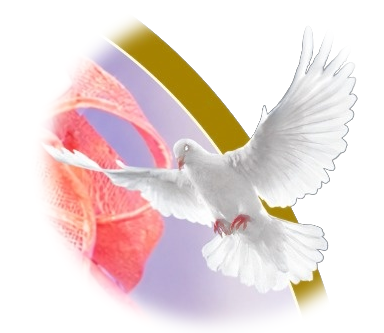
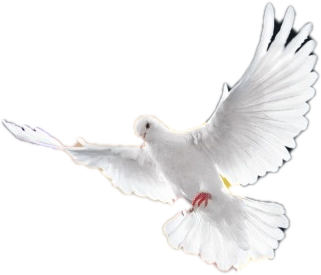
Booklet (WIP): A5 page builder, stylesheet and tribute text from the supplied document
Claude-Session: https://claude.ai/code/session_01K4EnF2A5EJ5axGxs2C2Gak

diff --git a/affiche-ruth-bonney-oussa/livret/livret.html b/affiche-ruth-bonney-oussa/livret/livret.html
@@ -1,0 +1,94 @@
+<!doctype html><html lang="en"><head><meta charset="utf-8"><title>In Loving Memory – Madam Ruth Bonney Oussa</title><style>@font-face{font-family:'Playfair';src:url(../fonts/PlayfairDisplay.ttf);font-weight:400 900;}
+@font-face{font-family:'Playfair';src:url(../fonts/PlayfairDisplay-Italic.ttf);font-style:italic;font-weight:400 900;}
+@font-face{font-family:'Cormorant';src:url(../fonts/Cormorant.ttf);font-weight:300 700;}
+@font-face{font-family:'Cormorant';src:url(../fonts/Cormorant-Italic.ttf);font-style:italic;font-weight:300 700;}
+@font-face{font-family:'Vibes';src:url(../fonts/GreatVibes.ttf);}
+@font-face{font-family:'Poppins';src:url(../fonts/Poppins-Regular.ttf);font-weight:400;}
+@font-face{font-family:'Poppins';src:url(../fonts/Poppins-SemiBold.ttf);font-weight:600;}
+@page{size:148mm 210mm;margin:0}
+:root{--gold:#d4a73a;--goldl:#f0d38d;--cream:#efe8d8;--soft:#bfb7a6}
+*{box-sizing:border-box;margin:0;padding:0}
+html,body{background:#000;-webkit-print-color-adjust:exact;print-color-adjust:exact}
+.page{position:relative;width:148mm;height:210mm;overflow:hidden;page-break-after:always;break-after:page;color:var(--cream);font-family:'Cormorant',serif;
+  background:radial-gradient(ellipse 120mm 110mm at 50% 38%,#1b2430 0%,#0c1119 60%,#070a10 100%)}
+.cover img{width:100%;height:100%;display:block}
+.frame{position:absolute;inset:7mm;border:.35mm solid var(--gold);opacity:.75}
+.frame::after{content:'';position:absolute;inset:1.6mm;border:.15mm solid var(--gold);opacity:.6}
+.center{position:absolute;left:16mm;right:16mm;top:20mm;bottom:18mm;text-align:center;display:flex;flex-direction:column;align-items:center}
+.center.top{top:15mm}.center.mid{justify-content:center;top:0;bottom:0}.center.photo{justify-content:center;top:0;bottom:0;gap:10mm}
+.cross{color:var(--gold);font-size:15pt;line-height:1;margin-bottom:3mm}
+.kicker{font-family:'Poppins',sans-serif;font-weight:600;font-size:8.5pt;letter-spacing:3mm;color:#fff;padding-left:3mm}
+.script{font-family:'Vibes',cursive;color:var(--gold)}
+.script.h{font-size:30pt;line-height:1.1}.script.big{font-size:34pt;line-height:1.2}.script.small{font-size:15pt;line-height:1.35;max-width:100mm}
+.sub{font-family:'Cormorant',serif;font-style:italic;font-size:12pt;color:var(--soft);margin-top:1mm}
+.rule{width:34mm;height:.3mm;background:linear-gradient(90deg,transparent,var(--gold),transparent);margin:5mm 0}
+.ring{width:62mm;height:70mm;border-radius:50%;border:1.1mm solid var(--gold);padding:1mm;margin:7mm 0 6mm;box-shadow:0 0 6mm rgba(212,167,58,.25)}
+.ring.big{width:92mm;height:104mm;margin:0}
+.ph{width:100%;height:100%;border-radius:50%;background:url(assets/portrait.jpg) center 18%/cover no-repeat}
+.madam{font-family:'Playfair',serif;font-size:11pt;letter-spacing:1.2mm;color:#fff}
+.name{font-family:'Playfair',serif;font-weight:700;font-size:19pt;color:var(--gold);margin-top:1mm}
+.aka{font-family:'Poppins',sans-serif;font-size:10pt;color:#fff;margin-top:2mm}
+.dates{font-family:'Poppins',sans-serif;font-size:8.5pt;color:var(--cream);margin-top:2mm;letter-spacing:.2mm}
+.dove{position:absolute;width:30mm;opacity:.95}
+.dove.l{left:12mm;top:62mm}.dove.r{right:12mm;top:62mm}
+.back .dove.l,.page .dove.l{}
+.mid ~ .dove{}
+.ev{margin-top:9mm}.ev h3{font-family:'Playfair',serif;font-size:15pt;color:#fff;margin-top:3mm;font-weight:600}.ev p{font-size:12pt;font-style:italic;color:var(--soft);margin-top:1mm}
+.pill{display:inline-block;border:.3mm solid var(--gold);color:var(--goldl);border-radius:5mm;font-family:'Poppins',sans-serif;font-weight:600;font-size:7.5pt;letter-spacing:.5mm;text-transform:uppercase;padding:1.6mm 4.5mm}
+.sur{font-family:'Poppins',sans-serif;font-weight:600;font-size:7pt;letter-spacing:.5mm;color:var(--goldl);margin-bottom:2mm;line-height:1.6}
+h4{font-family:'Playfair',serif;font-style:italic;font-weight:600;font-size:13pt;color:var(--gold);margin:4mm 0 1.5mm}
+.nm{font-family:'Poppins',sans-serif;font-size:8.5pt;line-height:1.55;color:var(--cream)}.nm b{font-weight:600;color:#fff}.nm span{color:var(--soft)}
+.side{font-family:'Poppins',sans-serif;font-weight:600;font-size:8pt;letter-spacing:1mm;text-transform:uppercase;color:var(--goldl);margin-top:1mm}
+.list{text-align:center}.list p{font-family:'Poppins',sans-serif;font-size:8.5pt;line-height:1.55;margin-bottom:2.1mm;color:var(--soft)}.list p b{color:#fff;font-weight:600}.list p span{color:var(--cream)}
+.text{padding:17mm 17mm 16mm}
+.ttl{text-align:center;margin-bottom:5mm}.ttl span{display:block;font-family:'Poppins',sans-serif;font-size:7.5pt;letter-spacing:1.6mm;text-transform:uppercase;color:var(--goldl)}
+.ttl b{display:block;font-family:'Vibes',cursive;font-weight:400;font-size:30pt;color:var(--gold);line-height:1.15}.ttl em{font-size:11pt;color:var(--soft)}
+.text .p{font-size:10.6pt;line-height:1.38;margin-bottom:2.6mm;text-align:justify;hyphens:auto}
+.text .q{font-size:10.4pt;line-height:1.35;font-style:italic;color:var(--gold);margin:1mm 4mm 3mm;text-align:center}
+.verse{font-family:'Cormorant',serif;font-style:italic;font-size:17pt;line-height:1.4;max-width:92mm;color:#fff;margin-top:2mm}
+.jn{font-family:'Poppins',sans-serif;font-weight:600;font-size:8pt;letter-spacing:1.2mm;color:var(--gold);margin-top:6mm}
+.pn{position:absolute;bottom:10.5mm;left:0;right:0;text-align:center;font-family:'Poppins',sans-serif;font-size:7pt;color:var(--soft)}
+</style></head><body><section class="page cover"><img src="assets/cover.jpg"></section>
+<section class="page"><div class="frame"></div>
+ <img class="dove l" src="assets/dove-l.png"><img class="dove r" src="assets/dove-r.png">
+ <div class="center top">
+  <div class="cross">✝</div><div class="kicker">IN LOVING MEMORY</div>
+  <div class="ring"><div class="ph"></div></div>
+  <div class="madam">MADAM</div><div class="name">Ruth BONNEY OUSSA</div>
+  <div class="aka">(a.k.a Da Adzo)</div>
+  <div class="dates">Aged 63 &nbsp;·&nbsp; Called to rest on 26th October 2026</div>
+  <div class="rule"></div>
+  <div class="script small">A life well lived, a heart full of love, a legacy that will forever remain.</div>
+ </div><div class="pn">2</div></section>
+<section class="page"><div class="frame"></div><div class="center">
+  <div class="cross">✝</div><div class="script h">Funeral Programme</div><div class="sub">Ewegbe-Hohoe, Volta Region, Ghana</div><div class="rule"></div>
+  <div class="ev"><span class="pill">Friday, 6 November 2026</span><h3>Wake-Keeping</h3><p>at the family residence</p></div>
+  <div class="ev"><span class="pill">Saturday, 7 November 2026</span><h3>Funeral Service and Burial</h3><p>at the cemetery in Ewegbe-Hohoe</p></div>
+  <div class="ev"><span class="pill">Sunday, 8 November 2026</span><h3>Thanksgiving Service</h3></div>
+ </div><div class="pn">3</div></section>
+<section class="page"><div class="frame"></div><div class="center">
+  <div class="cross">✝</div><div class="script h">The Beloved Family</div><div class="rule"></div>
+  <div class="sur">ADZRAKUTSE • BONNEY • OUSSA • HOUSSOU • OROUNLA • AGOUNKPE</div>
+  <h4>Children</h4>
+  <p class="nm"><b>Huldah</b> OROUNLA</p><p class="nm"><b>Michèle</b> OUSSA</p><p class="nm"><b>Godwill</b> OUSSA</p><p class="nm"><b>Anne Marie</b> OUSSA</p><p class="nm"><b>Jean Claude</b> OUSSA</p>
+  <h4>Siblings</h4>
+  <p class="nm"><b>TERESA</b> VIDEKPUE</p><p class="nm"><b>NOAH</b> VIDEKPUR</p><p class="nm"><b>MAWUNI</b> ADZRAKUTSE</p><p class="nm"><b>EMMANUEL</b> ADZRAKUTSE</p><p class="nm"><b>DAVID</b> AIIZRI</p><p class="nm"><b>FLORENCE</b> ADZEI</p><p class="nm"><b>ABUYA</b></p>
+  <div class="rule"></div>
+  <p class="nm"><b>KOFI BRAHENE</b>, <span>Vinor</span></p><p class="nm"><b>ADJOS ADZRAKUTSE</b>, <span>Vitor</span></p>
+ </div><div class="pn">4</div></section>
+<section class="page"><div class="frame"></div><div class="center"><div class="cross">✝</div><div class="script h">Chief Mourners</div><div class="side">Father’s side</div><div class="rule"></div><div class="list"><p><b>TOGBE KOMLA KUNDE V</b>, <span>Chief of Alavanyo Abehenease</span></p><p><b>MR ROBERT ADZRAKU</b>, <span>Rtd Educationist</span></p><p><b>MR SAI ADZRAKUTSE ATSU</b></p><p><b>TOGBE ADJOS ASANGO</b></p><p><b>PHILOMENA BONNIE</b></p><p><b>MAMA FAFA MEDINAWO AGBO II</b></p><p><b>MADAM VERONICA KOFIYAO</b></p><p><b>CHRISTINE ADRAKU</b></p><p><b>REGINA KOFIYAO</b></p><p><b>ELISA ADZRAKU</b></p><p><b>NESTOR ADZRAKU</b></p></div></div><div class="pn">5</div></section>
+<section class="page"><div class="frame"></div><div class="center"><div class="cross">✝</div><div class="script h">Chief Mourners</div><div class="side">Mother’s side</div><div class="rule"></div><div class="list"><p><b>TOGBE KEH XII</b>, <span>Divisional Chief of Gbi Wegbe</span></p><p><b>TOGBE KATABUA IV</b>, <span>Dzabe Sub-Divisional Chief</span></p><p><b>KPUKPOTOR JOHN KUBI</b>, <span>Gbi Wegbe</span></p><p><b>MR MANKRA MATHIAS</b>, <span>Fiator Nyive</span></p><p><b>MR ANTHONY ALAYI</b>, <span>Clan Head Nyive</span></p><p><b>MAMA AMETORWOYOR</b>, <span>Queen Mother Nyive</span></p><p><b>AFETOR KOKU SOGLO</b>, <span>Fiatefenorla Nyive</span></p><p><b>MADAM BERNICE BRAHENE</b></p><p><b>ME KOFI ADUSU</b>, <span>Fiatefenorla Dzabe</span></p></div></div><div class="pn">6</div></section>
+<section class="page text"><div class="ttl"><span>Tribute to</span><b>Sister Adjo</b><em>By Her Children</em></div><p class="p">Our mother, Mrs. OUSSA, Sister Adjo, went to be with her Lord at the age of 63.</p><p class="p">Lost for words to express what we feel, we know one thing: she is not lost. She is with the One she loved with all her heart.</p><p class="q">“I am the resurrection and the life. He who believes in me will live, even if he dies; and whoever lives and believes in me will never die.” — John 11:25-26</p><p class="p">Our mother did not simply speak to us about God: she made Him known to us through her life. We learned to love the Lord by watching her love Him. We learned to pray by hearing her pray. We learned to believe by seeing her believe, even when everything seemed hard.</p><p class="p">How many times did she tell us not to give up, to stand firm, to persevere in the faith? When we were tired, discouraged or tempted to let go, her voice was there: “Hold on. God is faithful.” Even today, those words echo within us, and we will carry them all our lives.</p><p class="q">“She opens her mouth with wisdom, and kind instruction is on her tongue. Her sons rise up and call her blessed.” — Proverbs 31:26, 28</p><p class="p">Mama, today we rise up, and we call you happy and blessed.</p><div class="pn">7</div></section>
+<section class="page text"><p class="p">Sister Adjo was a woman of prayer. In the secret of her room, on her knees, she carried each one of us before God. She prayed for our studies, our paths, our families, our struggles. She prayed for her church, for her brothers and sisters, and even for people whom few noticed.</p><p class="p">We will never know everything God did in answer to her prayers. But we know that much of what we are and what we have, we owe to her knees worn down before the throne of grace. Her prayers did not die with her: they continue to plead for us before God.</p><p class="q">“Pray without ceasing.” — 1 Thessalonians 5:17</p><p class="p">She lived out this verse, simply, every day.</p><p class="p">And there was that smile. That smile that never left her. The one that welcomed everyone, young or old, known or unknown. The one that reassured without a word, that disarmed closed hearts and warmed the coldest homes.</p><p class="p">Her smile was not that of a life without trials; our mother knew her struggles. But she had understood that the joy of the Lord is a strength, and she wore it on her face as a testimony.</p><p class="q">“She is clothed with strength and glory, and she laughs at the days to come.” — Proverbs 31:25</p><p class="p">Today, we weep. We do not hide it; Jesus Himself wept at the tomb of His friend. Our grief is real, because our love is real. There will be days when we will miss her voice, when her empty chair will weigh on us, when we will simply long to hear her say: “My child, take courage.”</p><p class="p">But we do not grieve as those who have no hope.</p><p class="q">“But we do not want you to be ignorant, brothers, concerning those who have fallen asleep, so that you will not grieve as the rest do, who have no hope.” — 1 Thessalonians 4:13</p><div class="pn">8</div></section>
+<section class="page text"><p class="p">We have the assurance that she sleeps in Christ, and that we will see her again.</p><p class="q">“He will wipe away every tear from their eyes. Death will be no more; there will be no more mourning, no more crying, no more pain.” — Revelation 21:4</p><p class="p">Mama, you have finished your course. You were not perfect — no one is — but you were faithful. You loved God, you loved people, you raised your children in the fear of the Lord. Today, we can say of you what the apostle Paul said of himself:</p><p class="q">“I have fought the good fight, I have finished the course, I have kept the faith. From now on, the crown of righteousness is reserved for me.” — 2 Timothy 4:7-8</p><p class="p">And we believe that the Lord welcomed you with these words: “Well done, good and faithful servant; enter into the joy of your master.” (Matthew 25:21)</p><p class="p">Mama, we make you a promise, on behalf of all your children. We will keep the faith you handed down to us. We will keep praying, loving one another, supporting one another, and forgiving. We will keep your smile alive in our homes and in our lives. And we will see to it that what you sowed with tears, we reap with joy.</p><p class="q">“Those who sow with tears will reap with shouts of joy.” — Psalm 126:5</p><p class="p">We do not say goodbye, but see you again in our Father’s house.</p><p class="p">Thank you for your faith, thank you for your prayers, thank you for your smile, thank you for your love. We love you, and we will honor you all our lives.</p><p class="p">Rest in peace, Sister Adjo. Your smile, your faith and your love live on in us.</p><div class="pn">9</div></section>
+<section class="page"><div class="frame"></div><div class="center photo">
+  <div class="ring big"><div class="ph"></div></div>
+  <div class="script small">Your love, your strength, your kindness will forever live in our hearts.</div>
+ </div><div class="pn">10</div></section>
+<section class="page"><div class="frame"></div><img class="dove l" src="assets/dove-l.png"><img class="dove r" src="assets/dove-r.png"><div class="center mid">
+  <div class="cross">✝</div>
+  <div class="verse">“Jesus said unto her, I am the resurrection, and the life: he that believeth in me, though he were dead, yet shall he live.”</div><div class="jn">JOHN 11:25</div>
+ </div><div class="pn">11</div></section>
+<section class="page back"><div class="frame"></div><img class="dove l" src="assets/dove-l.png"><img class="dove r" src="assets/dove-r.png"><div class="center mid">
+  <div class="script big">Rest in peace dear Mother</div><div class="rule"></div><div class="sub">She will always be in our hearts</div>
+ </div></section></body></html>

diff --git a/affiche-ruth-bonney-oussa/livret/livret.css b/affiche-ruth-bonney-oussa/livret/livret.css
@@ -1,0 +1,50 @@
+@font-face{font-family:'Playfair';src:url(../fonts/PlayfairDisplay.ttf);font-weight:400 900;}
+@font-face{font-family:'Playfair';src:url(../fonts/PlayfairDisplay-Italic.ttf);font-style:italic;font-weight:400 900;}
+@font-face{font-family:'Cormorant';src:url(../fonts/Cormorant.ttf);font-weight:300 700;}
+@font-face{font-family:'Cormorant';src:url(../fonts/Cormorant-Italic.ttf);font-style:italic;font-weight:300 700;}
+@font-face{font-family:'Vibes';src:url(../fonts/GreatVibes.ttf);}
+@font-face{font-family:'Poppins';src:url(../fonts/Poppins-Regular.ttf);font-weight:400;}
+@font-face{font-family:'Poppins';src:url(../fonts/Poppins-SemiBold.ttf);font-weight:600;}
+@page{size:148mm 210mm;margin:0}
+:root{--gold:#d4a73a;--goldl:#f0d38d;--cream:#efe8d8;--soft:#bfb7a6}
+*{box-sizing:border-box;margin:0;padding:0}
+html,body{background:#000;-webkit-print-color-adjust:exact;print-color-adjust:exact}
+.page{position:relative;width:148mm;height:210mm;overflow:hidden;page-break-after:always;break-after:page;color:var(--cream);font-family:'Cormorant',serif;
+  background:radial-gradient(ellipse 120mm 110mm at 50% 38%,#1b2430 0%,#0c1119 60%,#070a10 100%)}
+.cover img{width:100%;height:100%;display:block}
+.frame{position:absolute;inset:7mm;border:.35mm solid var(--gold);opacity:.75}
+.frame::after{content:'';position:absolute;inset:1.6mm;border:.15mm solid var(--gold);opacity:.6}
+.center{position:absolute;left:16mm;right:16mm;top:20mm;bottom:18mm;text-align:center;display:flex;flex-direction:column;align-items:center}
+.center.top{top:15mm}.center.mid{justify-content:center;top:0;bottom:0}.center.photo{justify-content:center;top:0;bottom:0;gap:10mm}
+.cross{color:var(--gold);font-size:15pt;line-height:1;margin-bottom:3mm}
+.kicker{font-family:'Poppins',sans-serif;font-weight:600;font-size:8.5pt;letter-spacing:3mm;color:#fff;padding-left:3mm}
+.script{font-family:'Vibes',cursive;color:var(--gold)}
+.script.h{font-size:30pt;line-height:1.1}.script.big{font-size:34pt;line-height:1.2}.script.small{font-size:15pt;line-height:1.35;max-width:100mm}
+.sub{font-family:'Cormorant',serif;font-style:italic;font-size:12pt;color:var(--soft);margin-top:1mm}
+.rule{width:34mm;height:.3mm;background:linear-gradient(90deg,transparent,var(--gold),transparent);margin:5mm 0}
+.ring{width:62mm;height:70mm;border-radius:50%;border:1.1mm solid var(--gold);padding:1mm;margin:7mm 0 6mm;box-shadow:0 0 6mm rgba(212,167,58,.25)}
+.ring.big{width:92mm;height:104mm;margin:0}
+.ph{width:100%;height:100%;border-radius:50%;background:url(assets/portrait.jpg) center 18%/cover no-repeat}
+.madam{font-family:'Playfair',serif;font-size:11pt;letter-spacing:1.2mm;color:#fff}
+.name{font-family:'Playfair',serif;font-weight:700;font-size:19pt;color:var(--gold);margin-top:1mm}
+.aka{font-family:'Poppins',sans-serif;font-size:10pt;color:#fff;margin-top:2mm}
+.dates{font-family:'Poppins',sans-serif;font-size:8.5pt;color:var(--cream);margin-top:2mm;letter-spacing:.2mm}
+.dove{position:absolute;width:30mm;opacity:.95}
+.dove.l{left:12mm;top:62mm}.dove.r{right:12mm;top:62mm}
+.back .dove.l,.page .dove.l{}
+.mid ~ .dove{}
+.ev{margin-top:9mm}.ev h3{font-family:'Playfair',serif;font-size:15pt;color:#fff;margin-top:3mm;font-weight:600}.ev p{font-size:12pt;font-style:italic;color:var(--soft);margin-top:1mm}
+.pill{display:inline-block;border:.3mm solid var(--gold);color:var(--goldl);border-radius:5mm;font-family:'Poppins',sans-serif;font-weight:600;font-size:7.5pt;letter-spacing:.5mm;text-transform:uppercase;padding:1.6mm 4.5mm}
+.sur{font-family:'Poppins',sans-serif;font-weight:600;font-size:7pt;letter-spacing:.5mm;color:var(--goldl);margin-bottom:2mm;line-height:1.6}
+h4{font-family:'Playfair',serif;font-style:italic;font-weight:600;font-size:13pt;color:var(--gold);margin:4mm 0 1.5mm}
+.nm{font-family:'Poppins',sans-serif;font-size:8.5pt;line-height:1.55;color:var(--cream)}.nm b{font-weight:600;color:#fff}.nm span{color:var(--soft)}
+.side{font-family:'Poppins',sans-serif;font-weight:600;font-size:8pt;letter-spacing:1mm;text-transform:uppercase;color:var(--goldl);margin-top:1mm}
+.list{text-align:center}.list p{font-family:'Poppins',sans-serif;font-size:8.5pt;line-height:1.55;margin-bottom:2.1mm;color:var(--soft)}.list p b{color:#fff;font-weight:600}.list p span{color:var(--cream)}
+.text{padding:17mm 17mm 16mm}
+.ttl{text-align:center;margin-bottom:5mm}.ttl span{display:block;font-family:'Poppins',sans-serif;font-size:7.5pt;letter-spacing:1.6mm;text-transform:uppercase;color:var(--goldl)}
+.ttl b{display:block;font-family:'Vibes',cursive;font-weight:400;font-size:30pt;color:var(--gold);line-height:1.15}.ttl em{font-size:11pt;color:var(--soft)}
+.text .p{font-size:10.6pt;line-height:1.38;margin-bottom:2.6mm;text-align:justify;hyphens:auto}
+.text .q{font-size:10.4pt;line-height:1.35;font-style:italic;color:var(--gold);margin:1mm 4mm 3mm;text-align:center}
+.verse{font-family:'Cormorant',serif;font-style:italic;font-size:17pt;line-height:1.4;max-width:92mm;color:#fff;margin-top:2mm}
+.jn{font-family:'Poppins',sans-serif;font-weight:600;font-size:8pt;letter-spacing:1.2mm;color:var(--gold);margin-top:6mm}
+.pn{position:absolute;bottom:10.5mm;left:0;right:0;text-align:center;font-family:'Poppins',sans-serif;font-size:7pt;color:var(--soft)}

diff --git a/affiche-ruth-bonney-oussa/livret/build_livret.py b/affiche-ruth-bonney-oussa/livret/build_livret.py
@@ -1,0 +1,75 @@
+import re, zipfile, pathlib, html
+root = pathlib.Path(__file__).resolve().parent
+# ---- tribute text, verbatim from the docx ----
+z = zipfile.ZipFile('/root/.claude/uploads/6ec7674e-28d5-5d9b-96df-1be1e7ee9249/f7c17cdf-TRIBUTE-SISTER-ADJO.docx')
+x = z.read('word/document.xml').decode('utf8')
+paras = []
+for p in re.findall(r'<w:p[ >].*?</w:p>', x, flags=re.S):
+    t = html.unescape(''.join(re.findall(r'<w:t[^>]*>(.*?)</w:t>', p, flags=re.S)))
+    t = re.sub(r'\s+', ' ', t).strip()
+    if t: paras.append(t)
+def is_quote(t): return t.startswith('“') and re.search(r'—\s*[1-3]?\s*[A-Z][a-z]+', t) is not None
+def render(t):
+    cls = 'q' if (t.startswith('“') and '—' in t) else 'p'
+    return '<p class="%s">%s</p>' % (cls, html.escape(t))
+# split into 3 pages at paragraph boundaries
+idx = {k: next(i for i,t in enumerate(paras) if t.startswith(k)) for k in ['Sister Adjo was a woman of prayer','We have the assurance']}
+chunks = [paras[1:idx['Sister Adjo was a woman of prayer']], paras[idx['Sister Adjo was a woman of prayer']:idx['We have the assurance']], paras[idx['We have the assurance']:]]
+title = paras[0]
+assert sum(len(c) for c in chunks)+1 == len(paras)
+def tribute_page(i, c):
+    head = '<div class="ttl"><span>Tribute to</span><b>Sister Adjo</b><em>By Her Children</em></div>' if i == 0 else ''
+    return '<section class="page text">%s%s<div class="pn">%d</div></section>' % (head, ''.join(render(t) for t in c), 7+i)
+
+def ent(n, r=None): return '<p><b>%s</b>%s</p>' % (n, (', <span>%s</span>' % r) if r else '')
+FATHER = [("TOGBE KOMLA KUNDE V","Chief of Alavanyo Abehenease"),("MR ROBERT ADZRAKU","Rtd Educationist"),("MR SAI ADZRAKUTSE ATSU",None),("TOGBE ADJOS ASANGO",None),("PHILOMENA BONNIE",None),("MAMA FAFA MEDINAWO AGBO II",None),("MADAM VERONICA KOFIYAO",None),("CHRISTINE ADRAKU",None),("REGINA KOFIYAO",None),("ELISA ADZRAKU",None),("NESTOR ADZRAKU",None)]
+MOTHER = [("TOGBE KEH XII","Divisional Chief of Gbi Wegbe"),("TOGBE KATABUA IV","Dzabe Sub-Divisional Chief"),("KPUKPOTOR JOHN KUBI","Gbi Wegbe"),("MR MANKRA MATHIAS","Fiator Nyive"),("MR ANTHONY ALAYI","Clan Head Nyive"),("MAMA AMETORWOYOR","Queen Mother Nyive"),("AFETOR KOKU SOGLO","Fiatefenorla Nyive"),("MADAM BERNICE BRAHENE",None),("ME KOFI ADUSU","Fiatefenorla Dzabe")]
+
+pages = []
+pages.append('<section class="page cover"><img src="assets/cover.jpg"></section>')
+pages.append('''<section class="page"><div class="frame"></div>
+ <img class="dove l" src="assets/dove-l.png"><img class="dove r" src="assets/dove-r.png">
+ <div class="center top">
+  <div class="cross">✝</div><div class="kicker">IN LOVING MEMORY</div>
+  <div class="ring"><div class="ph"></div></div>
+  <div class="madam">MADAM</div><div class="name">Ruth BONNEY OUSSA</div>
+  <div class="aka">(a.k.a Da Adzo)</div>
+  <div class="dates">Aged 63 &nbsp;·&nbsp; Called to rest on 26th October 2026</div>
+  <div class="rule"></div>
+  <div class="script small">A life well lived, a heart full of love, a legacy that will forever remain.</div>
+ </div><div class="pn">2</div></section>''')
+pages.append('''<section class="page"><div class="frame"></div><div class="center">
+  <div class="cross">✝</div><div class="script h">Funeral Programme</div><div class="sub">Ewegbe-Hohoe, Volta Region, Ghana</div><div class="rule"></div>
+  <div class="ev"><span class="pill">Friday, 6 November 2026</span><h3>Wake-Keeping</h3><p>at the family residence</p></div>
+  <div class="ev"><span class="pill">Saturday, 7 November 2026</span><h3>Funeral Service and Burial</h3><p>at the cemetery in Ewegbe-Hohoe</p></div>
+  <div class="ev"><span class="pill">Sunday, 8 November 2026</span><h3>Thanksgiving Service</h3></div>
+ </div><div class="pn">3</div></section>''')
+pages.append('''<section class="page"><div class="frame"></div><div class="center">
+  <div class="cross">✝</div><div class="script h">The Beloved Family</div><div class="rule"></div>
+  <div class="sur">ADZRAKUTSE • BONNEY • OUSSA • HOUSSOU • OROUNLA • AGOUNKPE</div>
+  <h4>Children</h4>
+  <p class="nm"><b>Huldah</b> OROUNLA</p><p class="nm"><b>Michèle</b> OUSSA</p><p class="nm"><b>Godwill</b> OUSSA</p><p class="nm"><b>Anne Marie</b> OUSSA</p><p class="nm"><b>Jean Claude</b> OUSSA</p>
+  <h4>Siblings</h4>
+  <p class="nm"><b>TERESA</b> VIDEKPUE</p><p class="nm"><b>NOAH</b> VIDEKPUR</p><p class="nm"><b>MAWUNI</b> ADZRAKUTSE</p><p class="nm"><b>EMMANUEL</b> ADZRAKUTSE</p><p class="nm"><b>DAVID</b> AIIZRI</p><p class="nm"><b>FLORENCE</b> ADZEI</p><p class="nm"><b>ABUYA</b></p>
+  <div class="rule"></div>
+  <p class="nm"><b>KOFI BRAHENE</b>, <span>Vinor</span></p><p class="nm"><b>ADJOS ADZRAKUTSE</b>, <span>Vitor</span></p>
+ </div><div class="pn">4</div></section>''')
+pages.append('<section class="page"><div class="frame"></div><div class="center"><div class="cross">✝</div><div class="script h">Chief Mourners</div><div class="side">Father’s side</div><div class="rule"></div><div class="list">%s</div></div><div class="pn">5</div></section>' % ''.join(ent(*e) for e in FATHER))
+pages.append('<section class="page"><div class="frame"></div><div class="center"><div class="cross">✝</div><div class="script h">Chief Mourners</div><div class="side">Mother’s side</div><div class="rule"></div><div class="list">%s</div></div><div class="pn">6</div></section>' % ''.join(ent(*e) for e in MOTHER))
+for i, c in enumerate(chunks):
+    pages.append(tribute_page(i, c))
+pages.append('''<section class="page"><div class="frame"></div><div class="center photo">
+  <div class="ring big"><div class="ph"></div></div>
+  <div class="script small">Your love, your strength, your kindness will forever live in our hearts.</div>
+ </div><div class="pn">10</div></section>''')
+pages.append('''<section class="page"><div class="frame"></div><img class="dove l" src="assets/dove-l.png"><img class="dove r" src="assets/dove-r.png"><div class="center mid">
+  <div class="cross">✝</div>
+  <div class="verse">“Jesus said unto her, I am the resurrection, and the life: he that believeth in me, though he were dead, yet shall he live.”</div><div class="jn">JOHN 11:25</div>
+ </div><div class="pn">11</div></section>''')
+pages.append('''<section class="page back"><div class="frame"></div><img class="dove l" src="assets/dove-l.png"><img class="dove r" src="assets/dove-r.png"><div class="center mid">
+  <div class="script big">Rest in peace dear Mother</div><div class="rule"></div><div class="sub">She will always be in our hearts</div>
+ </div></section>''')
+assert len(pages) == 12
+css = (root/'livret.css').read_text()
+(root/'livret.html').write_text('<!doctype html><html lang="en"><head><meta charset="utf-8"><title>In Loving Memory – Madam Ruth Bonney Oussa</title><style>%s</style></head><body>%s</body></html>' % (css, '\n'.join(pages)), encoding='utf-8')
+print('pages', len(pages), 'tribute paras', len(paras))
